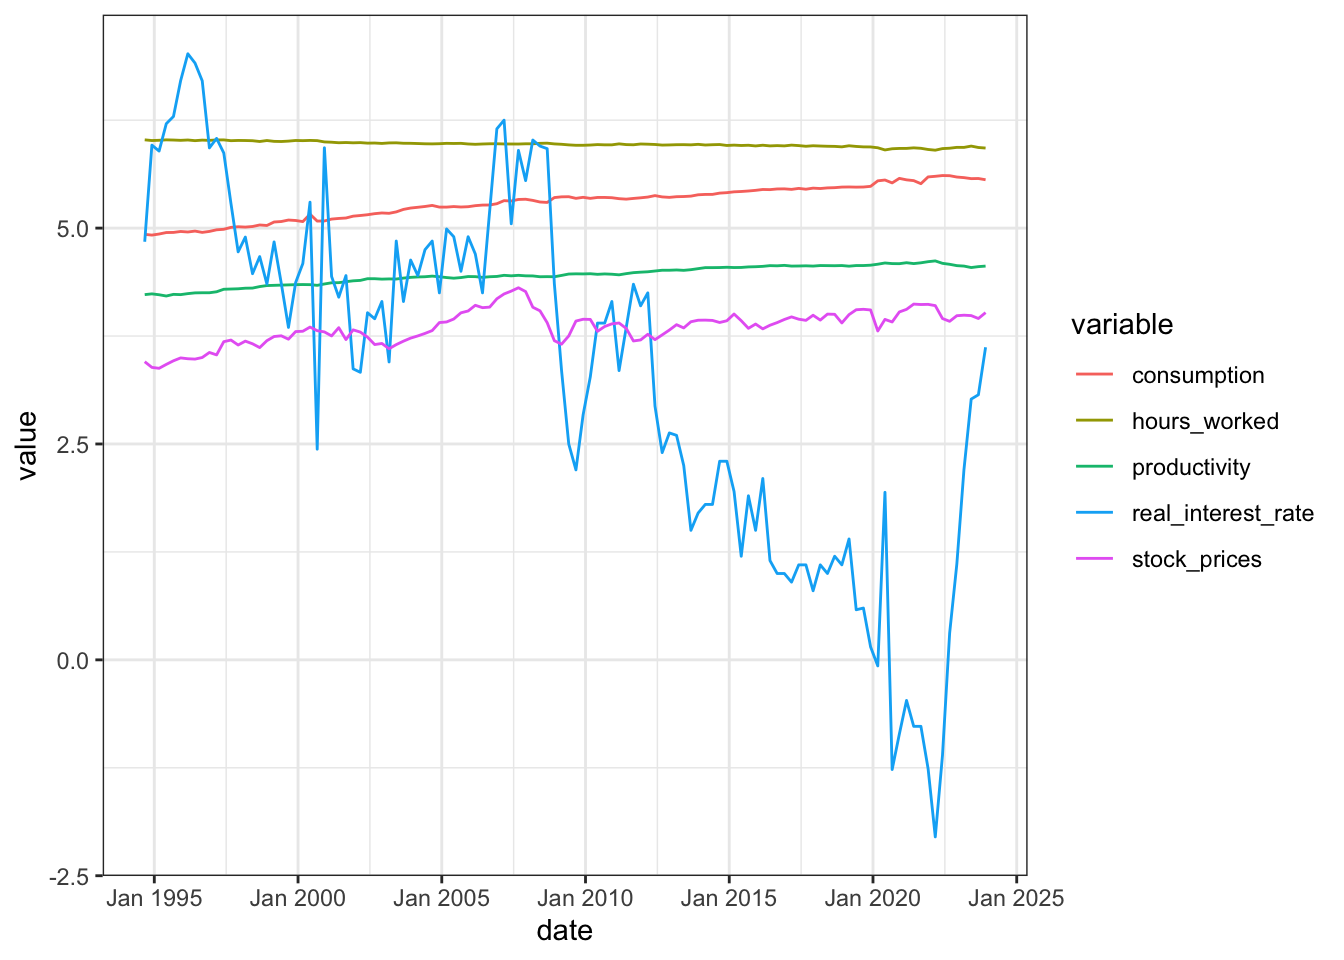
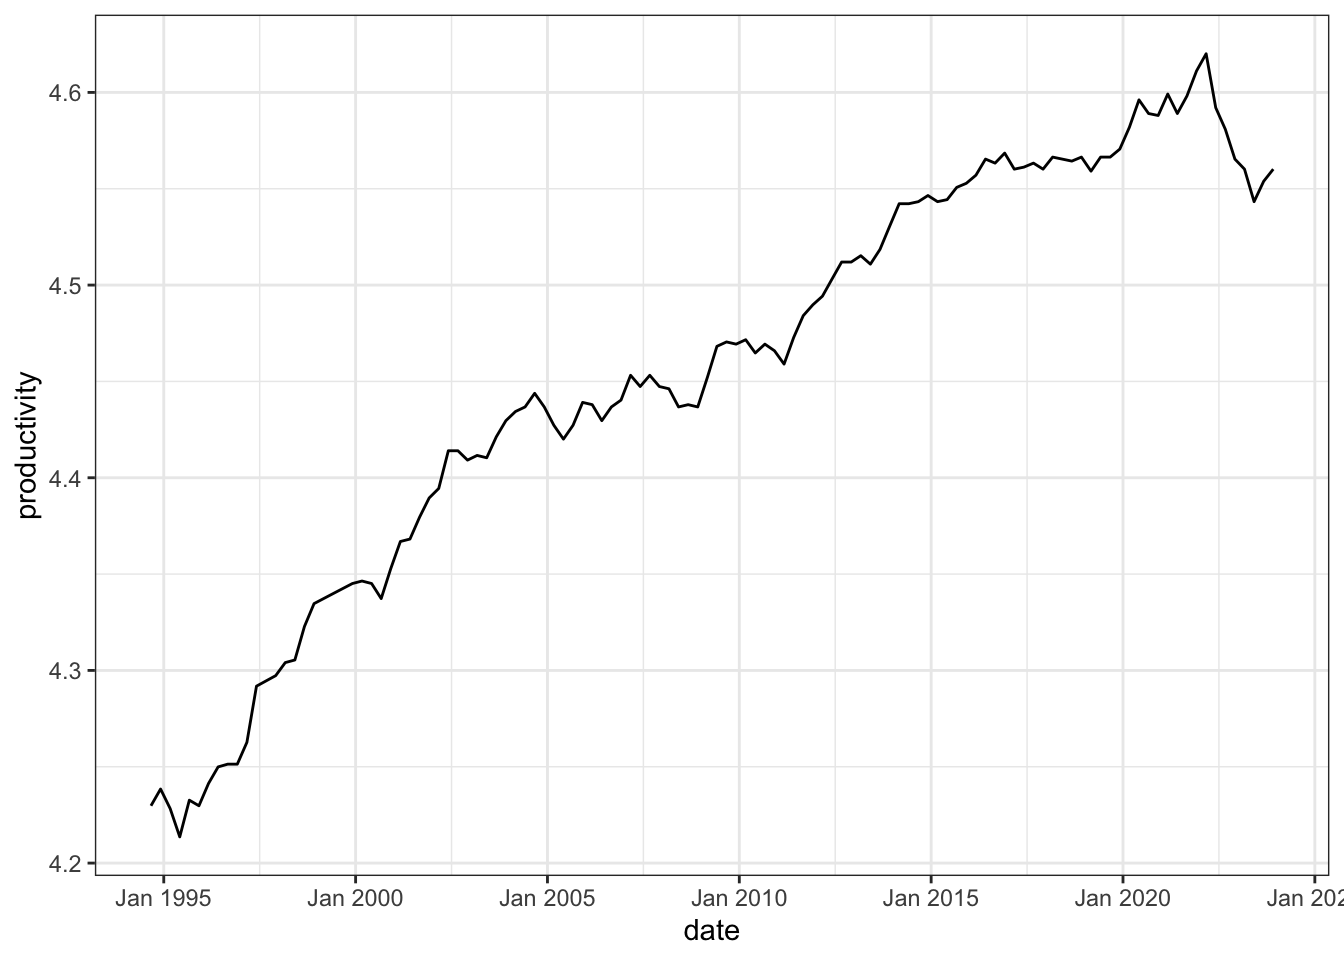
individual plots #2

diff --git a/docs/index.html b/docs/index.html
@@ -114,7 +114,6 @@ div.csl-indent {
   <li><a href="#introduction" id="toc-introduction" class="nav-link active" data-scroll-target="#introduction">Introduction</a></li>
   <li><a href="#data" id="toc-data" class="nav-link" data-scroll-target="#data">Data</a>
   <ul class="collapse">
-  <li><a href="#time-series-plot" id="toc-time-series-plot" class="nav-link" data-scroll-target="#time-series-plot">Time series plot</a></li>
   <li><a href="#acf-and-pacf-plot" id="toc-acf-and-pacf-plot" class="nav-link" data-scroll-target="#acf-and-pacf-plot">ACF and PACF plot</a></li>
   <li><a href="#augmented-dickey-fuller-test" id="toc-augmented-dickey-fuller-test" class="nav-link" data-scroll-target="#augmented-dickey-fuller-test">Augmented Dickey-Fuller test</a>
   <ul class="collapse">
@@ -128,7 +127,6 @@ div.csl-indent {
   <ul class="collapse">
   <li><a href="#structural-form" id="toc-structural-form" class="nav-link" data-scroll-target="#structural-form">Structural form</a></li>
   <li><a href="#reduced-form" id="toc-reduced-form" class="nav-link" data-scroll-target="#reduced-form">Reduced form</a></li>
-  <li><a href="#notation-relations" id="toc-notation-relations" class="nav-link" data-scroll-target="#notation-relations">Notation relations</a></li>
   <li><a href="#orthogonal-reduced-form-parameterization" id="toc-orthogonal-reduced-form-parameterization" class="nav-link" data-scroll-target="#orthogonal-reduced-form-parameterization">Orthogonal reduced-form parameterization</a></li>
   </ul></li>
   <li><a href="#algorithm" id="toc-algorithm" class="nav-link" data-scroll-target="#algorithm">Algorithm</a></li>
@@ -169,6 +167,16 @@ div.csl-indent {
 </header>
 
 <!-- latex shortcuts -->
+<!-- css to center figure labels -->
+<div class="cell">
+<style type="text/css">
+.caption {
+  margin: auto;
+  text-align: center;
+}
+</style>
+</div>
+<!-- do not show warnings and run code when testing -->
 <blockquote class="blockquote">
 <p><strong>Abstract.</strong> This article investigates the effects of optimism shocks on the Australian economy using a Bayesian Structural Vector Autoregression (BSVAR) model. We implement the sign and zero restrictions algorithm proposed by <span class="citation" data-cites="arias2018inference">Arias, Rubio-Ramı́rez, and Waggoner (<a href="#ref-arias2018inference" role="doc-biblioref">2018</a>)</span> to identify the optimism shock. Impulse response functions (IRF) and forecast error variance decomposition (FEVD) are used to analyse the effects of the optimism shock on five key macroeconomic variables: productivity, stock prices, consumption, real interest rate and hours worked.</p>
 <p><strong>Keywords.</strong> Bayesian Structural VAR, sign restrictions, zero restrictions, optimism shock</p>
@@ -176,7 +184,7 @@ div.csl-indent {
 <!-- [Replication Package](https://www.econometricsociety.org/publications/econometrica/2018/03/01/inference-based-structural-vector-autoregressions-identified) -->
 <section id="introduction" class="level1">
 <h1>Introduction</h1>
-<p><strong>Objective</strong>: The goal of this research project is to implement the sign and zero restrictions algorithm proposed by <span class="citation" data-cites="arias2018inference">Arias, Rubio-Ramı́rez, and Waggoner (<a href="#ref-arias2018inference" role="doc-biblioref">2018</a>)</span> in the <a href="https://github.com/bsvars/bsvarSIGNs">bsvarSIGNs</a> package, and apply it to analyse the optimism shock in Australia economy.</p>
+<p><strong>Objective</strong>: The goal of this research project is to implement the sign and zero restrictions algorithm proposed by <span class="citation" data-cites="arias2018inference">Arias, Rubio-Ramı́rez, and Waggoner (<a href="#ref-arias2018inference" role="doc-biblioref">2018</a>)</span> in the <a href="https://github.com/bsvars/bsvarSIGNs">bsvarSIGNs</a> package, and apply it to analyse the optimism shock to Australian economy.</p>
 <p><strong>Question</strong>: Does optimism shocks drive the business cycles in Australian economy?</p>
 <p><strong>Motivation</strong>: In macroeconomics, there has been a longstanding belief that fluctuations in business cycles can be largely attributed to episodes of optimism and pessimism. An optimism shock is defined as a positive shock to stock prices that does not affect productivity. Using a penalty function approach (PFA)<a href="#fn1" class="footnote-ref" id="fnref1" role="doc-noteref"><sup>1</sup></a>, <span class="citation" data-cites="beaudry2011mood">Beaudry, Nam, and Wang (<a href="#ref-beaudry2011mood" role="doc-biblioref">2011</a>)</span> finds significant evidence that optimism shocks are a key driver of business cycles in the United States as it creates a simultaneous boom in consumption and hours worked. But, <span class="citation" data-cites="arias2018inference">Arias, Rubio-Ramı́rez, and Waggoner (<a href="#ref-arias2018inference" role="doc-biblioref">2018</a>)</span> argue that PFA imposes additional restrictions, and they find less significant results using an importance sampler algorithm. This research project aims to extend the analysis to the Australian economy by implementing the importance sampler algorithm, and compare the results with United-States data.</p>
 </section>
@@ -184,27 +192,68 @@ div.csl-indent {
 <h1>Data</h1>
 <!-- load data -->
 <!-- concat datasets -->
-<p>All data are collected from the Reserve Bank of Australia (RBA), the Australian Bureau of Statistics (ABS) and Yahoo Finance. Following <span class="citation" data-cites="beaudry2011mood">Beaudry, Nam, and Wang (<a href="#ref-beaudry2011mood" role="doc-biblioref">2011</a>)</span>, we select the following five variables for our analysis</p>
+<p>All data are collected from the Reserve Bank of Australia (RBA), the Australian Bureau of Statistics (ABS) and Yahoo Finance. The sample period covers 1994 Q3 to 2023 Q4. Following <span class="citation" data-cites="beaudry2011mood">Beaudry, Nam, and Wang (<a href="#ref-beaudry2011mood" role="doc-biblioref">2011</a>)</span>, we select the following five variables for our analysis</p>
 <ul>
-<li><p><strong>Productivity</strong>: non-farm labour productivity per hour (source: RBA, series ID GNFPROSQI).</p></li>
-<li><p><strong>Stock prices</strong>: end-of-period ASX 200 index (source: Yahoo Finance, ticker symbol ^AXJO), divided by the consumer price index.</p></li>
-<li><p><strong>Consumption</strong>: retail turnover (source: ABS, series ID A3348585R), divided by the consumer price index.</p></li>
-<li><p><strong>Real interest rate</strong>: over-night cash rate nets inflation (source: RBA, series ID FIRMMCRI and GCPIAGSAQP).</p></li>
-<li><p><strong>Hours worked</strong>: total hours worked (source: ABS, series ID A85389611R).</p></li>
+<li><strong>Productivity</strong>: non-farm labour productivity per hour (source: RBA, series ID GNFPROSQI).</li>
 </ul>
+<div class="cell">
+<div class="cell-output-display">
+<p><img src="index_files/figure-html/unnamed-chunk-4-1.png" class="quarto-discovered-preview-image img-fluid" width="672"></p>
+</div>
+</div>
+<ul>
+<li><strong>Stock prices</strong>: end-of-period ASX 200 index (source: Yahoo Finance, ticker symbol ^AXJO), divided by the consumer price index.</li>
+</ul>
+<div class="cell">
+<div class="cell-output-display">
+<p><img src="index_files/figure-html/unnamed-chunk-5-1.png" class="img-fluid" width="672"></p>
+</div>
+</div>
+<ul>
+<li><strong>Consumption</strong>: retail turnover (source: ABS, series ID A3348585R), divided by the consumer price index.</li>
+</ul>
+<div class="cell">
+<div class="cell-output-display">
+<p><img src="index_files/figure-html/unnamed-chunk-6-1.png" class="img-fluid" width="672"></p>
+</div>
+</div>
+<ul>
+<li><strong>Real interest rate</strong>: over-night cash rate nets inflation (source: RBA, series ID FIRMMCRI and GCPIAGSAQP).</li>
+</ul>
+<div class="cell">
+<div class="cell-output-display">
+<p><img src="index_files/figure-html/unnamed-chunk-7-1.png" class="img-fluid" width="672"></p>
+</div>
+</div>
+<ul>
+<li><strong>Hours worked</strong>: total hours worked (source: ABS, series ID A85389611R).</li>
+</ul>
+<div class="cell">
+<div class="cell-output-display">
+<p><img src="index_files/figure-html/unnamed-chunk-8-1.png" class="img-fluid" width="672"></p>
+</div>
+</div>
 <p>The first two variables (productivity and stock prices) are chosen to identify the optimism shock, the last three variables (consumption, real interest rate and hours worked) are chosen to capture the business cycle dynamics as in standard macroeconomic theory.</p>
 <p>To capture multiplicative relationships in macroeconomic time series and percentage change interpretation, all variables are log transformed (except for real interest rate). A preview of first 6 rows of the concatenated dataset is shown below.</p>
 <div class="cell">
 <div class="cell-output-display">
-<table data-quarto-postprocess="true" class="table table-sm table-striped small">
+<table class="table table-sm table-striped small">
+<colgroup>
+<col style="width: 11%">
+<col style="width: 16%">
+<col style="width: 16%">
+<col style="width: 15%">
+<col style="width: 23%">
+<col style="width: 16%">
+</colgroup>
 <thead>
 <tr class="header">
-<th style="text-align: center;" data-quarto-table-cell-role="th">date</th>
-<th style="text-align: center;" data-quarto-table-cell-role="th">productivity</th>
-<th style="text-align: center;" data-quarto-table-cell-role="th">stock_prices</th>
-<th style="text-align: center;" data-quarto-table-cell-role="th">consumption</th>
-<th style="text-align: center;" data-quarto-table-cell-role="th">real_interest_rate</th>
-<th style="text-align: center;" data-quarto-table-cell-role="th">hours_worked</th>
+<th style="text-align: center;">date</th>
+<th style="text-align: center;">productivity</th>
+<th style="text-align: center;">stock_prices</th>
+<th style="text-align: center;">consumption</th>
+<th style="text-align: center;">real_interest_rate</th>
+<th style="text-align: center;">hours_worked</th>
 </tr>
 </thead>
 <tbody>
@@ -258,19 +307,8 @@ div.csl-indent {
 </tr>
 </tbody>
 </table>
-
-
 </div>
 </div>
-<section id="time-series-plot" class="level2">
-<h2 class="anchored" data-anchor-id="time-series-plot">Time series plot</h2>
-<div class="cell">
-<div class="cell-output-display">
-<p><img src="index_files/figure-html/unnamed-chunk-4-1.png" class="quarto-discovered-preview-image img-fluid" width="672"></p>
-</div>
-</div>
-<p>The sample period covers 1994Q3 to 2023Q4.</p>
-</section>
 <section id="acf-and-pacf-plot" class="level2">
 <h2 class="anchored" data-anchor-id="acf-and-pacf-plot">ACF and PACF plot</h2>
 <div class="cell">
@@ -303,12 +341,12 @@ div.csl-indent {
 <p>All five variables are non-stationary at 5% significance level base on the Augmented Dickey-Fuller test.</p>
 <div class="cell">
 <div class="cell-output-display">
-<table data-quarto-postprocess="true" class="table table-sm table-striped small">
+<table class="table table-sm table-striped small">
 <thead>
 <tr class="header">
-<th style="text-align: left;" data-quarto-table-cell-role="th">variable</th>
-<th style="text-align: right;" data-quarto-table-cell-role="th">p_value</th>
-<th style="text-align: right;" data-quarto-table-cell-role="th">non_stationary</th>
+<th style="text-align: left;">variable</th>
+<th style="text-align: right;">p_value</th>
+<th style="text-align: right;">non_stationary</th>
 </tr>
 </thead>
 <tbody>
@@ -339,8 +377,6 @@ div.csl-indent {
 </tr>
 </tbody>
 </table>
-
-
 </div>
 </div>
 </section>
@@ -349,12 +385,12 @@ div.csl-indent {
 <p>Applying Augmented Dickey-Fuller test to the first difference of the variables, we find that all variables are stationary at 5% significance level. Therefore, all variables are integrated of order one <span class="math inline">\(I(1)\)</span> and it is reasonable to put them in a VAR system without further transformation.</p>
 <div class="cell">
 <div class="cell-output-display">
-<table data-quarto-postprocess="true" class="table table-sm table-striped small">
+<table class="table table-sm table-striped small">
 <thead>
 <tr class="header">
-<th style="text-align: left;" data-quarto-table-cell-role="th">variable</th>
-<th style="text-align: right;" data-quarto-table-cell-role="th">p_value</th>
-<th style="text-align: right;" data-quarto-table-cell-role="th">non_stationary</th>
+<th style="text-align: left;">variable</th>
+<th style="text-align: right;">p_value</th>
+<th style="text-align: right;">non_stationary</th>
 </tr>
 </thead>
 <tbody>
@@ -385,8 +421,6 @@ div.csl-indent {
 </tr>
 </tbody>
 </table>
-
-
 </div>
 </div>
 </section>
@@ -448,55 +482,6 @@ div.csl-indent {
 <p>where <span class="math inline">\(\mathbf{u} = [\mathbf{u}_1\ \cdots\ \mathbf{u}_T]'\)</span>.</p>
 <p>The matrices <span class="math inline">\(\mathbf{B}\)</span> and <span class="math inline">\(\mathbf{\Sigma}\)</span> are reduced-form parameters.</p>
 </section>
-<section id="notation-relations" class="level3">
-<h3 class="anchored" data-anchor-id="notation-relations">Notation relations</h3>
-<p>In matrix form, notations from the lectures are</p>
-<p><span class="math display">\[
-\begin{align*}
-\mathbf{Y} &amp;= \mathbf{X} A + E \\
-\mathbf{Y} B_0' &amp;= \mathbf{X} B_+' + U \\
-E | \mathbf{X} &amp;\sim \mathcal{MN}_{T\times N}(\mathbf{0}, \mathbf{\Sigma}, \mathbf{I}_T) \\
-U | \mathbf{X} &amp;\sim \mathcal{MN}_{T\times N}(\mathbf{0}, \mathbf{I}_N, \mathbf{I}_T) \\
-\end{align*}
-\]</span></p>
-<p>Their equivalence relation is summarized in the following table.</p>
-<table class="table">
-<thead>
-<tr class="header">
-<th><span class="citation" data-cites="rubio2010structural">Rubio-Ramirez, Waggoner, and Zha (<a href="#ref-rubio2010structural" role="doc-biblioref">2010</a>)</span></th>
-<th>Lecture</th>
-</tr>
-</thead>
-<tbody>
-<tr class="odd">
-<td><span class="math inline">\(\mathbf{B}\)</span></td>
-<td><span class="math inline">\(A\)</span></td>
-</tr>
-<tr class="even">
-<td><span class="math inline">\(\mathbf{\Sigma}\)</span></td>
-<td><span class="math inline">\(\mathbf{\Sigma}\)</span></td>
-</tr>
-<tr class="odd">
-<td><span class="math inline">\(\mathbf{A}_0\)</span></td>
-<td><span class="math inline">\(B_0'\)</span></td>
-</tr>
-<tr class="even">
-<td><span class="math inline">\(\mathbf{A}_+\)</span></td>
-<td><span class="math inline">\(B_+'\)</span></td>
-</tr>
-<tr class="odd">
-<td><span class="math inline">\(\boldsymbol{\varepsilon}\)</span></td>
-<td><span class="math inline">\(U\)</span></td>
-</tr>
-<tr class="even">
-<td><span class="math inline">\(\mathbf{u}\)</span></td>
-<td><span class="math inline">\(E\)</span></td>
-</tr>
-</tbody>
-</table>
-<p>(also <span class="math inline">\(B_0=B\)</span> in <span class="citation" data-cites="wozniakBsvarsBayesianEstimation2022">Woźniak (<a href="#ref-wozniakBsvarsBayesianEstimation2022" role="doc-biblioref">2022</a>)</span>)</p>
-<p>In the following, we will use the first set of notations.</p>
-</section>
 <section id="orthogonal-reduced-form-parameterization" class="level3">
 <h3 class="anchored" data-anchor-id="orthogonal-reduced-form-parameterization">Orthogonal reduced-form parameterization</h3>
 <p>Since SVAR model are identified up to a rotation matrix <span class="math inline">\(\mathbf{Q}\)</span>, we can explicitly specified the reduced-form model as</p>
@@ -524,7 +509,7 @@ f_h^{-1}(\mathbf{B}, \mathbf{\Sigma}, \mathbf{Q}) &amp;= (
 <section id="algorithm" class="level2">
 <h2 class="anchored" data-anchor-id="algorithm">Algorithm</h2>
 <p>The goal is to sample structural parameters (<span class="math inline">\(\mathbf{A}_0\)</span>, <span class="math inline">\(\mathbf{A}_+\)</span>) satisfying <strong>both</strong> the sign and zero restrictions, but the set of structural parameters satisfying the zero restrictions is of Lebesgue measure zero in the set of all structural parameters (<span class="math inline">\(\mathbb{P}(X=x)=0\)</span> for continuous <span class="math inline">\(X\)</span>). Luckily, we can sample the set of structural parameters satisfying the sign restrictions conditional on satisfying the zero restrictions.</p>
-<p>Here is a high level outline of the algorithm:</p>
+<p>Here is a high level outline of the algorithm proposed by <span class="citation" data-cites="arias2018inference">Arias, Rubio-Ramı́rez, and Waggoner (<a href="#ref-arias2018inference" role="doc-biblioref">2018</a>)</span>:</p>
 <ol type="1">
 <li>Sample reduced-form parameters (<span class="math inline">\(\mathbf{B}\)</span>, <span class="math inline">\(\mathbf{\Sigma}\)</span>, <span class="math inline">\(\mathbf{Q}\)</span>) conditional on the zero restrictions.</li>
 <li>Set <span class="math inline">\((\mathbf{A}_0, \mathbf{A}_+) = f_h^{-1}(\mathbf{B}, \mathbf{\Sigma}, \mathbf{Q})\)</span>.</li>
@@ -602,9 +587,6 @@ Kilian, Lutz, and Helmut Lütkepohl. 2017. <em>Structural Vector Autoregressive 
 </div>
 <div id="ref-rubio2010structural" class="csl-entry" role="listitem">
 Rubio-Ramirez, Juan F, Daniel F Waggoner, and Tao Zha. 2010. <span>“Structural Vector Autoregressions: Theory of Identification and Algorithms for Inference.”</span> <em>The Review of Economic Studies</em> 77 (2): 665–96.
-</div>
-<div id="ref-wozniakBsvarsBayesianEstimation2022" class="csl-entry" role="listitem">
-Woźniak, Tomasz. 2022. <em>Bsvars: Bayesian Estimation of Structural Vector Autoregressive Models</em>. R Package. <a href="https://cran.r-project.org/package=bsvars">https://cran.r-project.org/package=bsvars</a>.
 </div>
 </div></section><section id="footnotes" class="footnotes footnotes-end-of-document" role="doc-endnotes"><h2 class="anchored quarto-appendix-heading">Footnotes</h2>
 
